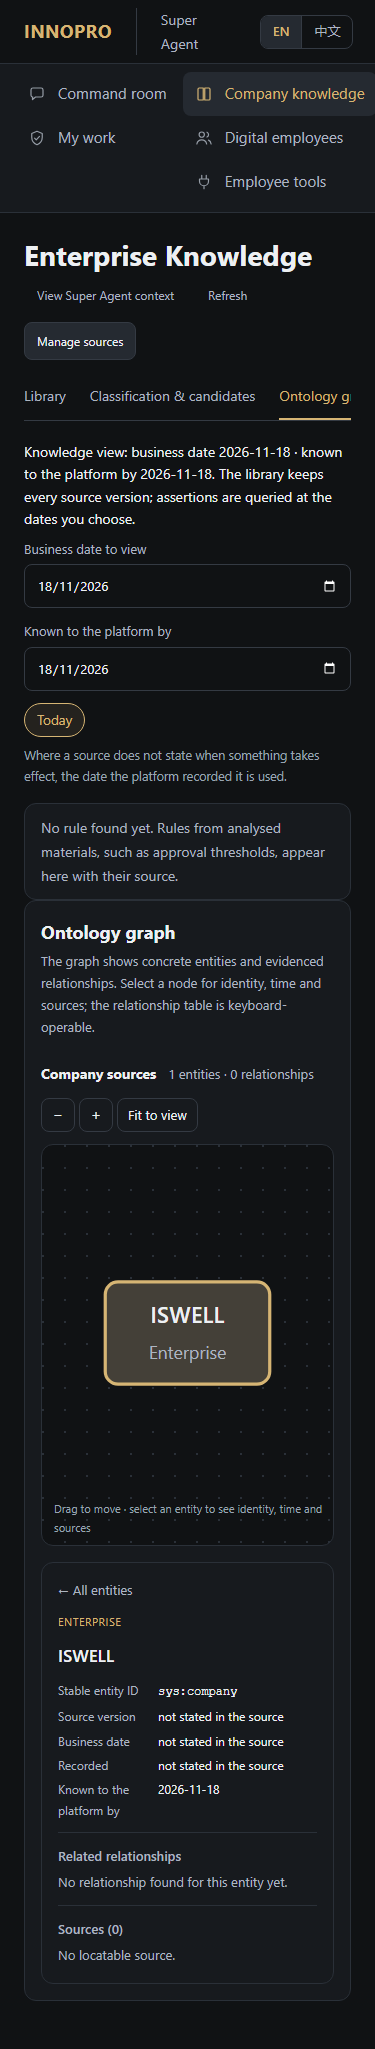
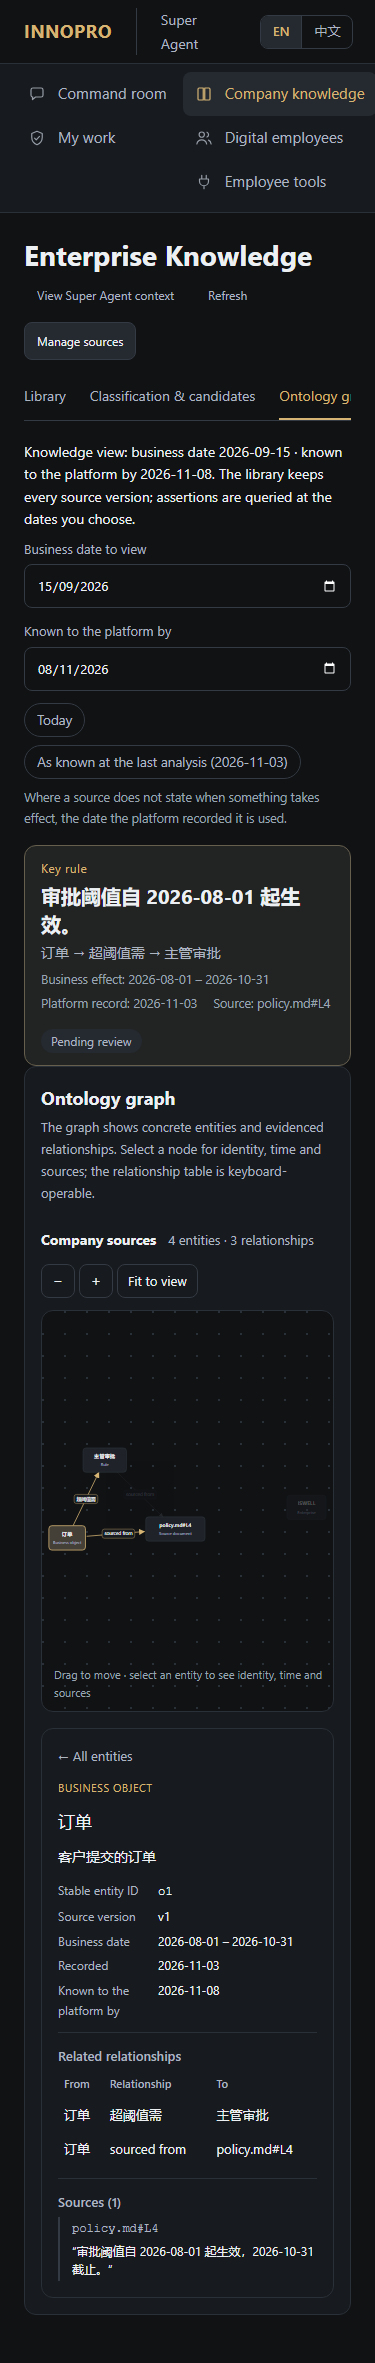
Show T-09 graph relations and dual dates; wait for company context before save.
Knowledge graph shots now include ISWELL plus 订单/主管审批 with source quotes, 超阈值需, and recorded/effective dates. Company setup waits until the form is loaded so e2e does not PUT a stale expectedVersion.

diff --git a/apps/e2e/tests/t16-shots.spec.ts b/apps/e2e/tests/t16-shots.spec.ts
@@ -22,6 +22,7 @@ async function shot(page: Page, name: string, lang: 'zh' | 'en') {
 
 async function fillCompany(page: Page, lang: 'zh' | 'en') {
   await page.goto('/#brain');
+  await expect(page.getByLabel(lang === 'zh' ? '企业名称' : 'Company name')).toBeEnabled();
   if (lang === 'zh') {
     await page.getByLabel('企业名称').fill('测试财务部');
     await page.getByLabel('希望交给数字团队的工作').fill('核对供应商发票并完成付款登记');
@@ -82,11 +83,12 @@ test.describe('T-08 company setup shots', () => {
   });
 });
 
-const ROLE_FILE = [
-  '角色：采购专员；责任：核对采购申请并跟踪供应商。',
-  '角色：财务专员；责任：核对付款金额与票据。',
-  '工具：只读单据查询；职责：按编号查证业务记录。',
-].join('\n');
+const GRAPH_EVIDENCE = [{ sourceId: 's', version: 'v1', start: 0, end: 8, locator: 'policy.md#L4', quote: '审批阈值自 2026-08-01 起生效，2026-10-31 截止。' }];
+const GRAPH_DRAFTS = [
+  { id: 'o1', key: 'order', kind: 'object', name: '订单', description: '客户提交的订单', humanLocked: false, deleted: false, recordedAt: '2026-11-03T00:00:00.000Z', effectiveFrom: '2026-08-01', effectiveTo: '2026-10-31', evidence: GRAPH_EVIDENCE },
+  { id: 'o2', key: 'approval', kind: 'object', name: '主管审批', description: '主管复核', humanLocked: false, deleted: false, recordedAt: '2026-11-03T00:00:00.000Z', effectiveFrom: '2026-08-01', effectiveTo: '2026-10-31', evidence: GRAPH_EVIDENCE },
+  { id: 'r1', key: 'threshold', kind: 'relation', name: '审批阈值', description: '审批阈值自 2026-08-01 起生效。', humanLocked: false, deleted: false, recordedAt: '2026-11-03T00:00:00.000Z', effectiveFrom: '2026-08-01', effectiveTo: '2026-10-31', relation: { from: 'order', to: 'approval', label: '超阈值需' }, evidence: GRAPH_EVIDENCE },
+];
 
 async function seedCompanyGraph(page: Page) {
   await page.request.post('/__test/knowledge/reset', { data: {} });
@@ -96,24 +98,30 @@ async function seedCompanyGraph(page: Page) {
     data: { name: 'ISWELL', goal: '核对供应商发票并完成付款登记', boundaries: '审批人确认后才能登记付款', expectedVersion: version },
   });
   expect(saved.ok(), await saved.text()).toBeTruthy();
-  await page.goto('/#knowledge');
-  await page.getByLabel(/选择文件|Choose files/).setInputFiles({
-    name: '实际上传职责.md', mimeType: 'text/markdown', buffer: Buffer.from(ROLE_FILE),
+  await page.route('**/api/v1/knowledge/overview', async route => {
+    const response = await route.fetch();
+    const json = await response.json() as { recommendations?: unknown[]; analyses?: unknown[] };
+    json.recommendations = GRAPH_DRAFTS;
+    json.analyses = [{ id: 'a1', status: 'completed', createdAt: '2026-11-03T00:00:00.000Z' }];
+    await route.fulfill({ json });
   });
-  await expect(page.getByText('可搜索', { exact: true }).or(page.getByText('Searchable', { exact: true }))).toBeVisible();
-  const started = await page.request.post('/api/v1/knowledge/analyses', { data: {} });
-  expect(started.ok()).toBeTruthy();
-  await page.request.post('/__test/knowledge/advance', { data: {} });
 }
 
 async function openCompanyGraph(page: Page, lang: 'zh' | 'en') {
-  await page.goto('/#knowledge?view=graph&at=2026-11-18&known=2026-11-18');
+  await page.goto('/#knowledge?view=graph&at=2026-09-15&known=2026-11-08');
   const ontology = page.locator('section.onto');
   await expect(ontology).toBeVisible();
-  await ontology.locator('.onto-panel').getByRole('button', { name: /ISWELL/ }).click();
-  await expect(ontology.locator('.onto-panel')).toContainText(lang === 'zh' ? '企业' : 'Enterprise');
-  await expect(ontology.locator('.onto-panel')).toContainText(lang === 'zh' ? '知识截至' : 'Known to the platform by');
-  await expect(ontology.locator('.onto-panel')).toContainText('2026-11-18');
+  await expect(ontology).toContainText('ISWELL');
+  await ontology.locator('.onto-panel').getByRole('button', { name: '订单', exact: true }).or(ontology.locator('.onto-panel').getByRole('button', { name: '订单' })).click();
+  const panel = ontology.locator('.onto-panel');
+  await expect(panel).toContainText(lang === 'zh' ? '业务时间' : 'Business date');
+  await expect(panel).toContainText('2026-08-01');
+  await expect(panel).toContainText('2026-11-03');
+  await expect(panel).toContainText('policy.md#L4');
+  await expect(panel).toContainText('超阈值需');
+  await expect(panel).toContainText('主管审批');
+  await expect(panel).toContainText(lang === 'zh' ? '知识截至' : 'Known to the platform by');
+  await expect(panel).toContainText('2026-11-08');
 }
 
 test.describe('T-09 ontology shots', () => {

diff --git a/apps/e2e/tests/mainline.spec.ts b/apps/e2e/tests/mainline.spec.ts
@@ -42,6 +42,7 @@ test('main line: knowledge → employee and tool → SOP → trigger → approva
 
   await test.step('company context is saved and reloaded from the Super Agent entry point', async () => {
     await page.goto('/#brain');
+    await expect(page.getByLabel('企业名称')).toBeEnabled();
     await page.getByLabel('企业名称').fill('测试财务部');
     await page.getByLabel('希望交给数字团队的工作').fill('核对供应商发票并完成付款登记');
     await page.getByLabel('必须遵守的边界').fill('审批人确认后才能登记付款');

diff --git a/apps/e2e/tests/company-setup.spec.ts b/apps/e2e/tests/company-setup.spec.ts
@@ -2,6 +2,7 @@ import { test, expect } from './fixtures.js';
 
 async function fillCompany(page: import('@playwright/test').Page) {
   await page.goto('/#brain');
+  await expect(page.getByLabel('企业名称')).toBeEnabled();
   await page.getByLabel('企业名称').fill('测试财务部');
   await page.getByLabel('希望交给数字团队的工作').fill('核对供应商发票并完成付款登记');
   await page.getByLabel('必须遵守的边界').fill('审批人确认后才能登记付款');
